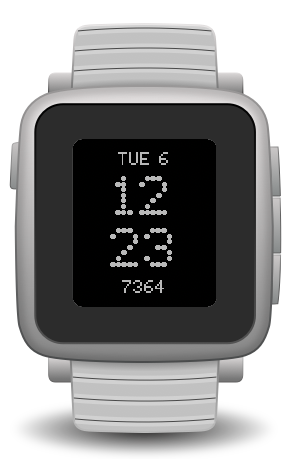
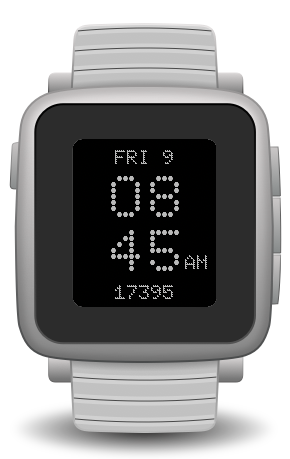
store assets update

Changed region(s): [[0.3724, 0.305, 0.7138, 0.671]]

diff --git a/src/modules/steps.c b/src/modules/steps.c
@@ -1,7 +1,13 @@
 #include <pebble.h>
 
 void draw_steps(Layer *layer, GContext *ctx, GRect location, GFont font_used, int step_count) {
-  if (step_count > 0) {
+  HealthMetric metric = HealthMetricStepCount;
+  time_t start = time_start_of_today();
+  time_t end = time(NULL);
+  
+  // Check if health data is available
+  HealthServiceAccessibilityMask mask = health_service_metric_accessible(metric, start, end);
+  if (step_count > 0 && mask && HealthServiceAccessibilityMaskAvailable) {
     char steps_buffer[16];
     snprintf(steps_buffer, sizeof(steps_buffer), "%d", step_count);
     

diff --git a/README.md b/README.md
@@ -11,6 +11,7 @@ Users can modify the following settings:
 - Change the text color (only for Pebbles with color screens)
 - Set the 12/24 hour setting
 - Show AM/PM (only if the 12/24 hour setting is set to 12 hours)
+- Top and Bottom modules can be set to Steps, Date, or Empty
 
-This watchface utilizes the font [NDOT 47](https://fontstruct.com/fontstructions/show/2047444/ndot-45-inspired-by-nothing-1), which is licensed under the SIL Open Font License. 
+This watchface utilizes the font [Doto](https://github.com/oliverlalan/Doto), which is licensed under the SIL Open Font License. 
 Nothing Technology Limited owns the copyright for the NOTHING brand.
